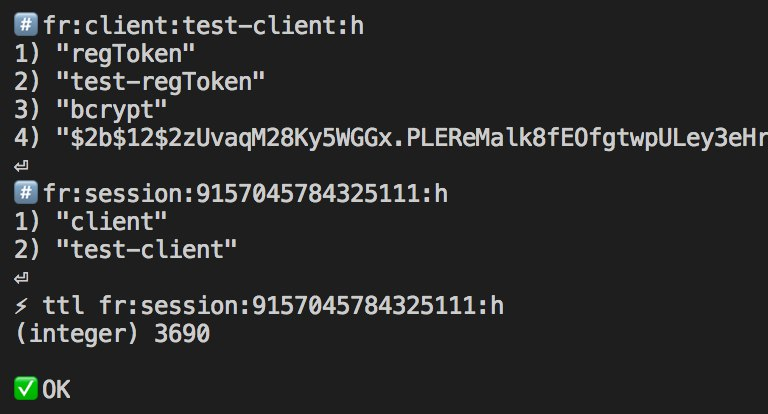
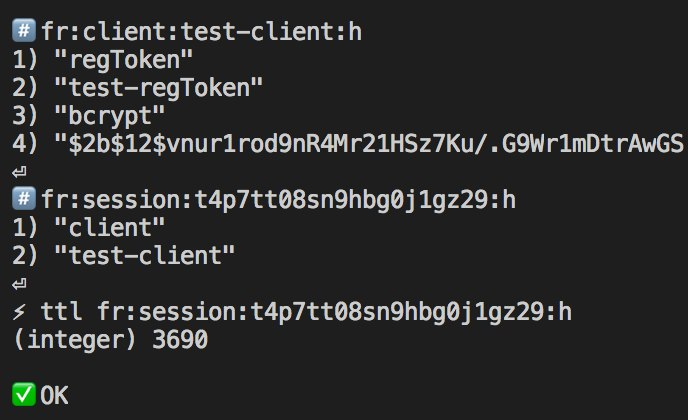
Increase token size

diff --git a/lib/server.js b/lib/server.js
@@ -52,6 +52,11 @@ const register = async ({ clock, redis }, { client, secret, regToken }) => {
   return { code: 200 }
 }
 
+const randomToken = () =>
+  Math.random()
+    .toString(36)
+    .substring(2)
+
 const login = async ({ redis }, { client, secret }) => {
   const hash = await redis.hget(`client:${client}:h`, 'bcrypt')
   if (!hash) {
@@ -62,9 +67,7 @@ const login = async ({ redis }, { client, secret }) => {
   } catch (err) {
     return { code: 401, message: 'Unauthorised', errCode: err.code }
   }
-  const token = Math.random()
-    .toString()
-    .slice(2)
+  const token = randomToken() + randomToken()
   const { ttlSeconds } = config.session
   await redis
     .multi([

diff --git a/README.md b/README.md
@@ -27,12 +27,25 @@ https://github.com/evanx/fastify-auth-mlk/blob/master/lib/server.js
 ### /register
 
 - `client` - the ID of the client
-- `secret` - the secret credentials chosen by the client
+- `secret` - the secret chosen by the client
 - `regToken` - the token provided for registration
+
+The client might generate its secret as follows:
+
+```shell
+openssl rand 24 -base64
+```
+
+```shell
+TTDJ2uqo6VxIvaqiX52xEn8b2daxEhFV
+```
 
 #### Requires
 
-- hashes key `client:${client}:h` with fields `regToken`, `regBy`
+Hashes key `client:${client}:h` with fields:
+
+- `regToken` - a token issued to the client for registration
+- `regBy` - epoch deadline for registration
 
 ```javascript
 const [regTokenRes, regBy] = await redis.hmget(
@@ -48,6 +61,11 @@ The secret is hashed using Bcrypt and stored in Redis.
 
 See https://github.com/kelektiv/node.bcrypt.js
 
+```javascript
+const bcryptRes = await bcrypt.hash(secret, config.bcrypt.rounds)
+await redis.hset(`client:${client}:h`, 'bcrypt', bcryptRes)
+```
+
 ### /login
 
 - `client` - the ID of the client
@@ -55,15 +73,30 @@ See https://github.com/kelektiv/node.bcrypt.js
 
 #### Requires
 
-- hashes key `client:${client}:h` with field `bcrypt`
+Hashes key `client:${client}:h` with field:
+
+- `bcrypt` - the `/register` secret, hashed and salted using Bcrypt
 
 ```javascript
 const hash = await redis.hget(`client:${client}:h`, 'bcrypt')
 ```
 
+and
+
+```javascript
+await bcrypt.compare(secret, hash)
+```
+
 #### Returns
 
 - `token` - a session token
+
+```
+const randomToken = () =>
+  Math.random()
+    .toString(36)
+    .substring(2)
+```
 
 ## Related
 
